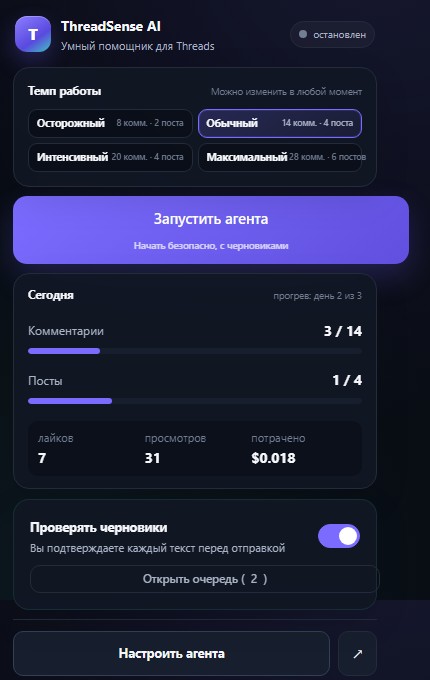
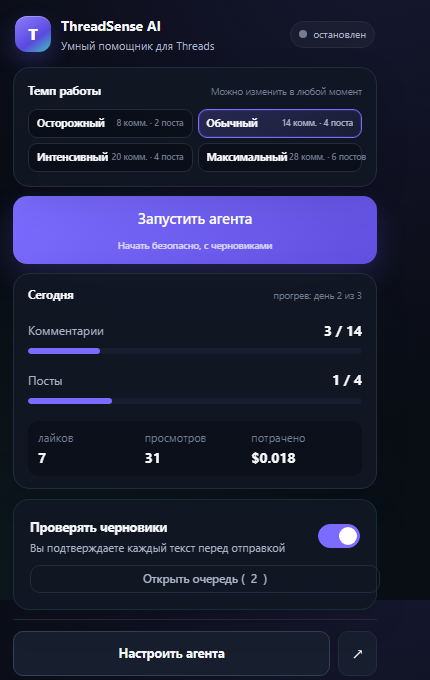
Fix popup and narrow-layout overflow

Changed region(s): [[0.2721, 0.3088, 0.6651, 0.3706], [0.8465, 0.2779, 0.9674, 0.4015]]

diff --git a/extension/src/ui/popup.css b/extension/src/ui/popup.css
@@ -164,7 +164,10 @@ footer {
  * агент уже работает и кнопка теперь останавливает.
  */
 .bigStart {
-  width: 100%;
+  width: auto;
+  min-width: 0;
+  max-width: 100%;
+  justify-self: stretch;
   padding: 13px;
   font-size: 15px;
   font-weight: 600;
@@ -194,13 +197,28 @@ footer {
 /* ThreadSense 2.1 popup */
 body {
   width: 390px;
+  max-width: 100vw;
   padding: 13px;
   gap: 9px;
   max-height: 600px;
+  overflow-x: hidden;
   overflow-y: auto;
 }
 
+body > *,
+.card,
+.popupHead,
+.stats,
+.presets,
+.grid3,
+.log,
+footer {
+  min-width: 0;
+  max-width: 100%;
+}
+
 .popupHead { display: flex; align-items: center; gap: 10px; padding: 2px 2px 4px; }
+.popupHead .grow { min-width: 0; }
 .popupHead strong { font-size: 14px; letter-spacing: -.01em; }
 .brandMark {
   width: 36px; height: 36px; display: grid; place-items: center; flex: none;
@@ -219,16 +237,16 @@ body {
 .setupCard button { width: 100%; background: rgba(255,255,255,.05); }
 
 .presetSection { padding: 14px; }
-.sectionLabel { display: flex; align-items: baseline; justify-content: space-between; gap: 8px; margin-bottom: 9px; }
+.sectionLabel { display: flex; align-items: baseline; justify-content: space-between; gap: 8px; margin-bottom: 9px; min-width: 0; }
 .sectionLabel > span { font-size: 11.5px; font-weight: 700; }
-.sectionLabel small { color: var(--text-3); font-size: 9.5px; }
+.sectionLabel small { color: var(--text-3); font-size: 9.5px; min-width: 0; overflow: hidden; text-overflow: ellipsis; white-space: nowrap; }
 .presets { grid-template-columns: repeat(2, 1fr); gap: 5px; }
 .presetBtn { min-width: 0; padding: 7px 8px; border-radius: 9px; background: rgba(8,11,18,.56); display: flex; justify-content: space-between; }
 .presetBtn strong { font-size: 10.5px; white-space: nowrap; }
 .presetBtn .tiny { font-size: 8.5px; white-space: nowrap; }
 .presetBtn.on { background: linear-gradient(145deg, rgba(123,108,255,.22), rgba(123,108,255,.08)); box-shadow: inset 0 0 0 1px rgba(123,108,255,.18); }
 
-.bigStart { min-height: 52px; padding: 8px 16px; border-radius: 14px; display: grid; gap: 1px; background: linear-gradient(135deg, var(--accent), #6150df); box-shadow: 0 13px 30px rgba(103,87,238,.24); }
+.bigStart { width: auto; min-width: 0; max-width: 100%; justify-self: stretch; min-height: 52px; padding: 8px 16px; border-radius: 14px; display: grid; gap: 1px; background: linear-gradient(135deg, var(--accent), #6150df); box-shadow: 0 13px 30px rgba(103,87,238,.24); }
 .bigStart span { font-size: 14.5px; }
 .bigStart small { font-size: 9.5px; font-weight: 500; opacity: .72; }
 .bigStart.on { background: var(--bg-3); box-shadow: none; }
@@ -254,11 +272,14 @@ body {
 .logItem { background: rgba(15,20,32,.72); border: 1px solid rgba(255,255,255,.035); }
 
 footer { gap: 8px; padding-top: 11px; }
+footer > * { min-width: 0; }
 footer .secondary { background: var(--bg-3); border-color: var(--line-strong); font-weight: 650; }
 .iconBtn { width: 37px; padding-inline: 0; font-size: 16px; }
 
 @media (max-width: 360px) {
-  body { width: 100vw; padding: 12px; }
+  body { width: 100vw; max-width: 100vw; padding: 12px; }
   .statusPill { max-width: 118px; }
   .presets { grid-template-columns: repeat(2, 1fr); }
+  .presetBtn { padding-inline: 7px; }
+  .presetBtn .tiny { max-width: 72px; overflow: hidden; text-overflow: ellipsis; }
 }

diff --git a/extension/src/ui/options.css b/extension/src/ui/options.css
@@ -720,7 +720,7 @@ pre.raw {
  * ThreadSense 2.1 — beginner-first control center
  * ================================================================== */
 
-#app { grid-template-columns: 256px minmax(0, 1fr); }
+#app { grid-template-columns: 256px minmax(0, 1fr); width: 100%; max-width: 100vw; overflow-x: clip; }
 
 aside {
   padding: 22px 14px 16px;
@@ -753,7 +753,16 @@ nav button.on .navIcon { color: var(--accent-2); }
 .asideFoot { margin-top: auto; display: flex; align-items: center; gap: 7px; }
 .saveDot { width: 6px; height: 6px; background: var(--ok); border-radius: 50%; box-shadow: 0 0 8px rgba(67,211,158,.5); }
 
-main { max-width: 1120px; width: 100%; padding: 42px 48px 90px; }
+main { max-width: 1120px; min-width: 0; width: 100%; padding: 42px 48px 90px; }
+.tab, .fields, .group, .field, .card { min-width: 0; max-width: 100%; }
+.row > .grow { min-width: 0; }
+.field > .row { min-width: 0; flex-wrap: wrap; }
+.field > .row > input { min-width: 180px; flex: 1; }
+.tag, .qHead, .qPost, .qReplies, .qDraft, .logRow > div { min-width: 0; overflow-wrap: anywhere; }
+.tag { max-width: 100%; }
+.tag > span { min-width: 0; overflow: hidden; text-overflow: ellipsis; }
+.qActions { flex-wrap: wrap; }
+.qActions button { min-width: 0; }
 .pageHead { display: flex; align-items: flex-start; justify-content: space-between; gap: 24px; margin-bottom: 24px; }
 .pageHead h1 { font-size: clamp(25px, 3vw, 34px); letter-spacing: -.035em; line-height: 1.15; margin: 4px 0 8px; }
 .pageHead p { margin: 0; color: var(--text-2); max-width: 620px; font-size: 14px; }
@@ -866,4 +875,9 @@ main { max-width: 1120px; width: 100%; padding: 42px 48px 90px; }
   .controlCard .row { flex-wrap: wrap; }
   .powerControl { width: 100%; margin-top: 5px; }
   .powerControl span { width: 100%; min-width: 0; }
+  .rangeRow { grid-template-columns: minmax(0, 1fr) 58px; }
+  .logRow { grid-template-columns: 6px 70px minmax(0, 1fr); gap: 7px; padding-inline: 8px; }
+  .qActions button { flex: 1 1 120px; }
+  .wizard { padding: 20px 16px; }
+  .wizard .row { flex-wrap: wrap; }
 }
